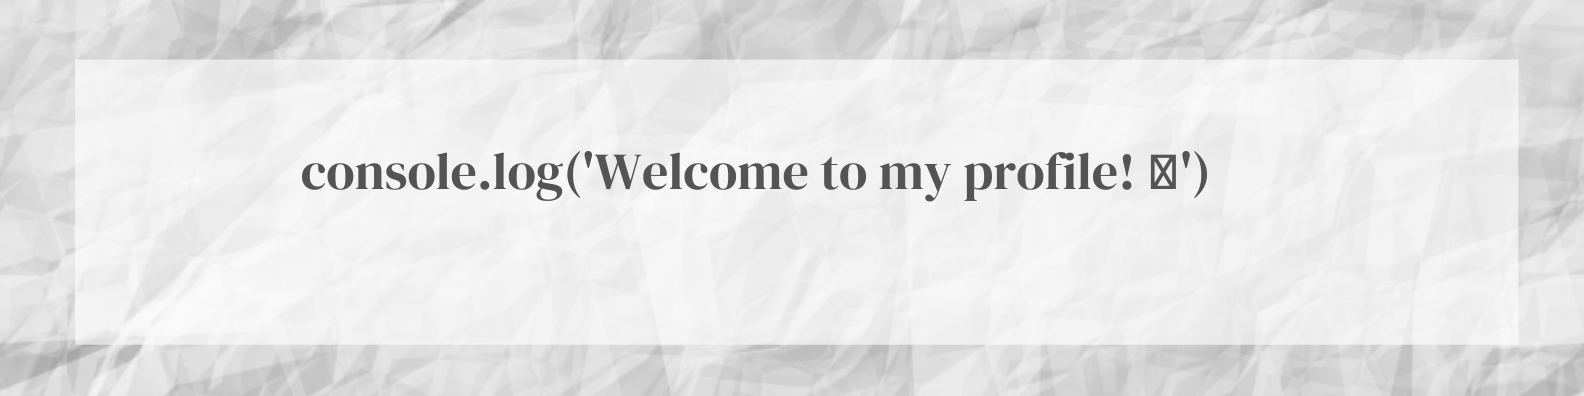
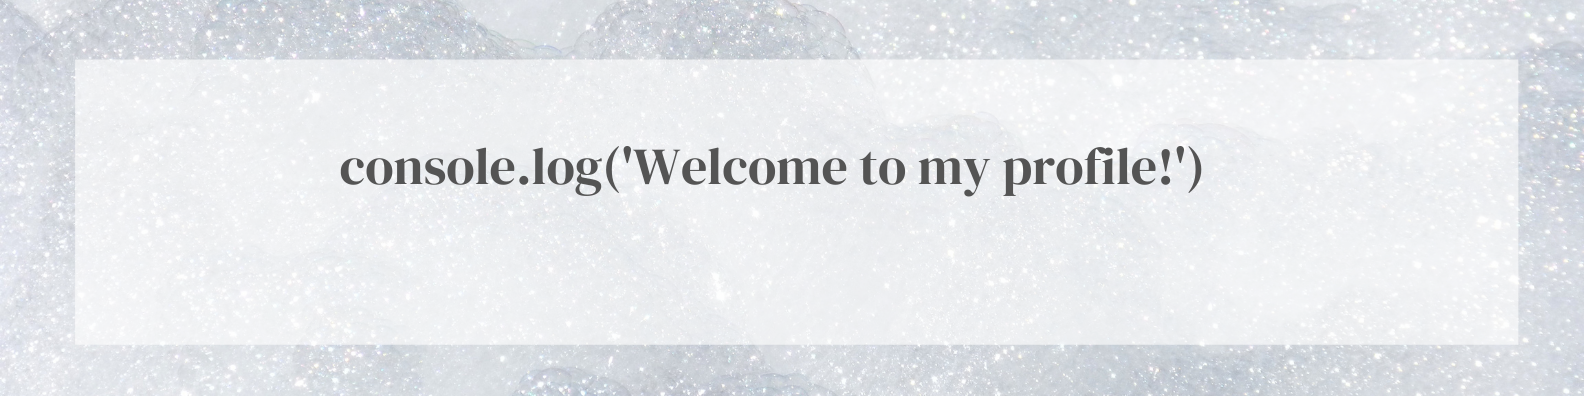
update

diff --git a/README.md b/README.md
@@ -4,16 +4,13 @@
 ## Front-end Developer :computer: Full Stack Developer in process :books:
 
 Tengo pasión por la tecnología, por entender cómo funcionan las cosas que vemos a diario, y por sobre todo, por aprender a crearlas.
-![Banner Image](/image/newgradient.png)
-### :zap: ¿Qué tecnologías manejo muy bien?
+![Banner Image](/image/small-banner.png)
+### :zap: Tecnologías
 * HTML5
 * CSS3
 * SASS
-
-### :zap: ¿Qué tecnologías estoy aprendiendo y mejorando día a día?
 * JavaScript
 * Node.js con Express
-
 ### :zap: ¿Qué tecnologías he visto y me encantaría profundizar?
 * Amazon Web Services
 * Docker
@@ -29,7 +26,11 @@ Tengo pasión por la tecnología, por entender cómo funcionan las cosas que vem
 * Linkedin: https://www.linkedin.com/in/lucilavkendziur/
 * E-mail: lukendziur@gmail.com
 
-![Banner Image](/image/newgradient.png)
+![Banner Image](/image/small-banner.png)
+
+![](https://visitor-badge.laobi.icu/badge?page_id=Lukendziur.Lukendziur)
+
+![Top Langs](https://github-readme-stats.vercel.app/api/top-langs/?username=Lukendziur&theme=buefy)
 
 
 
